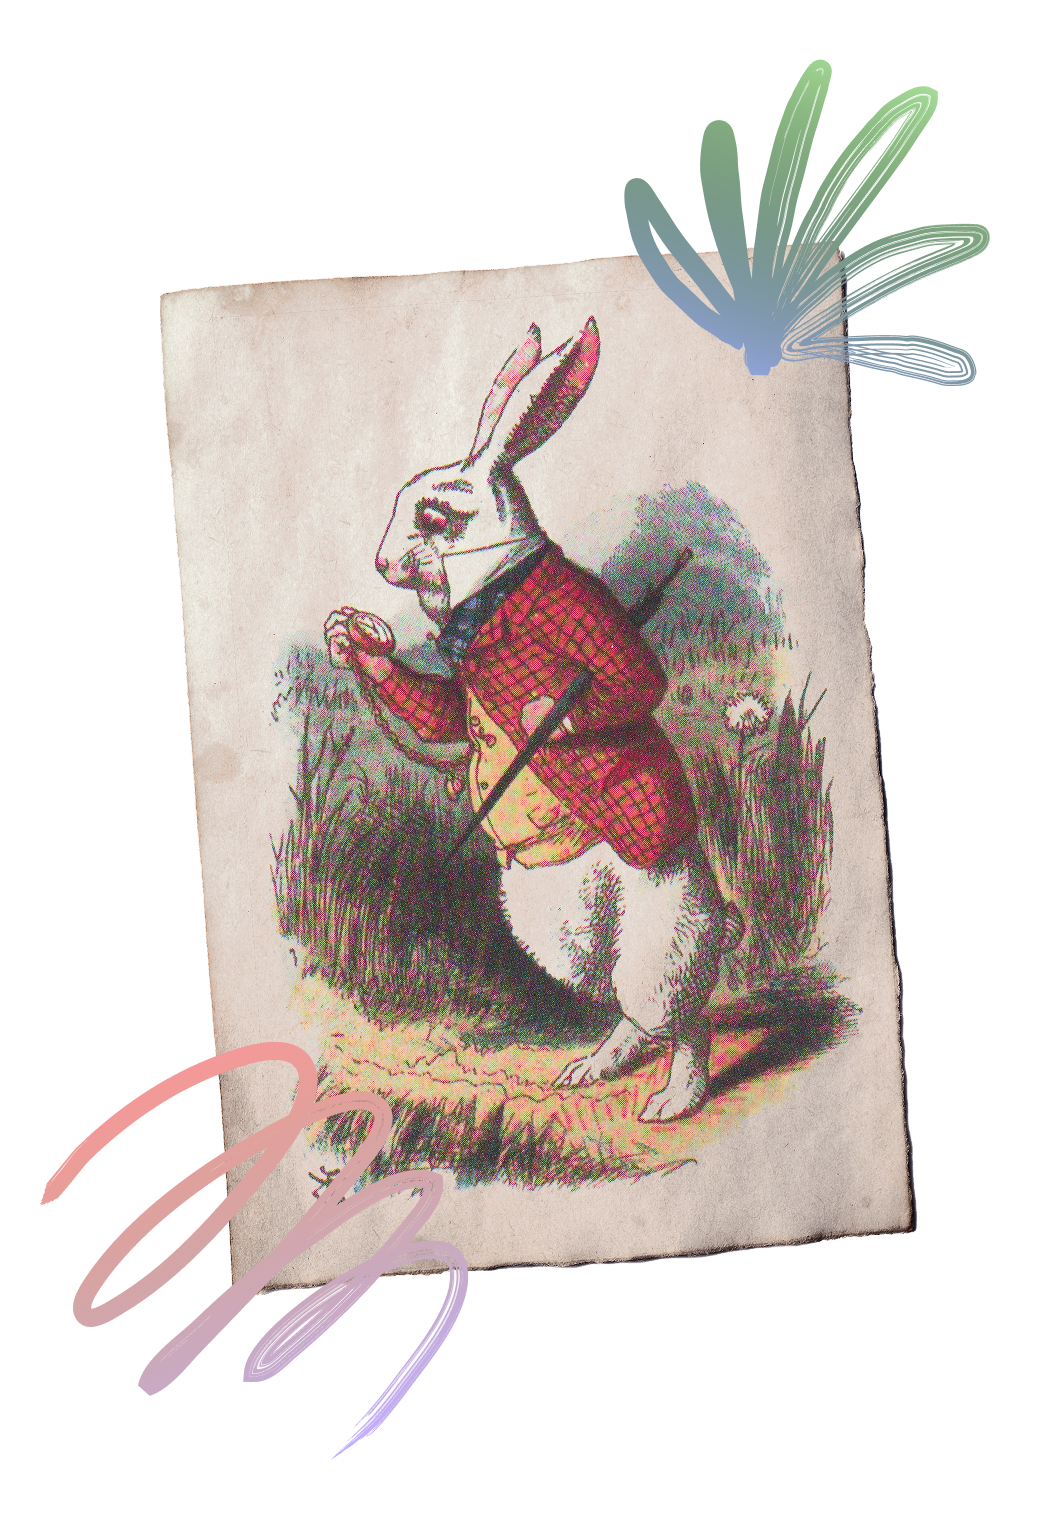
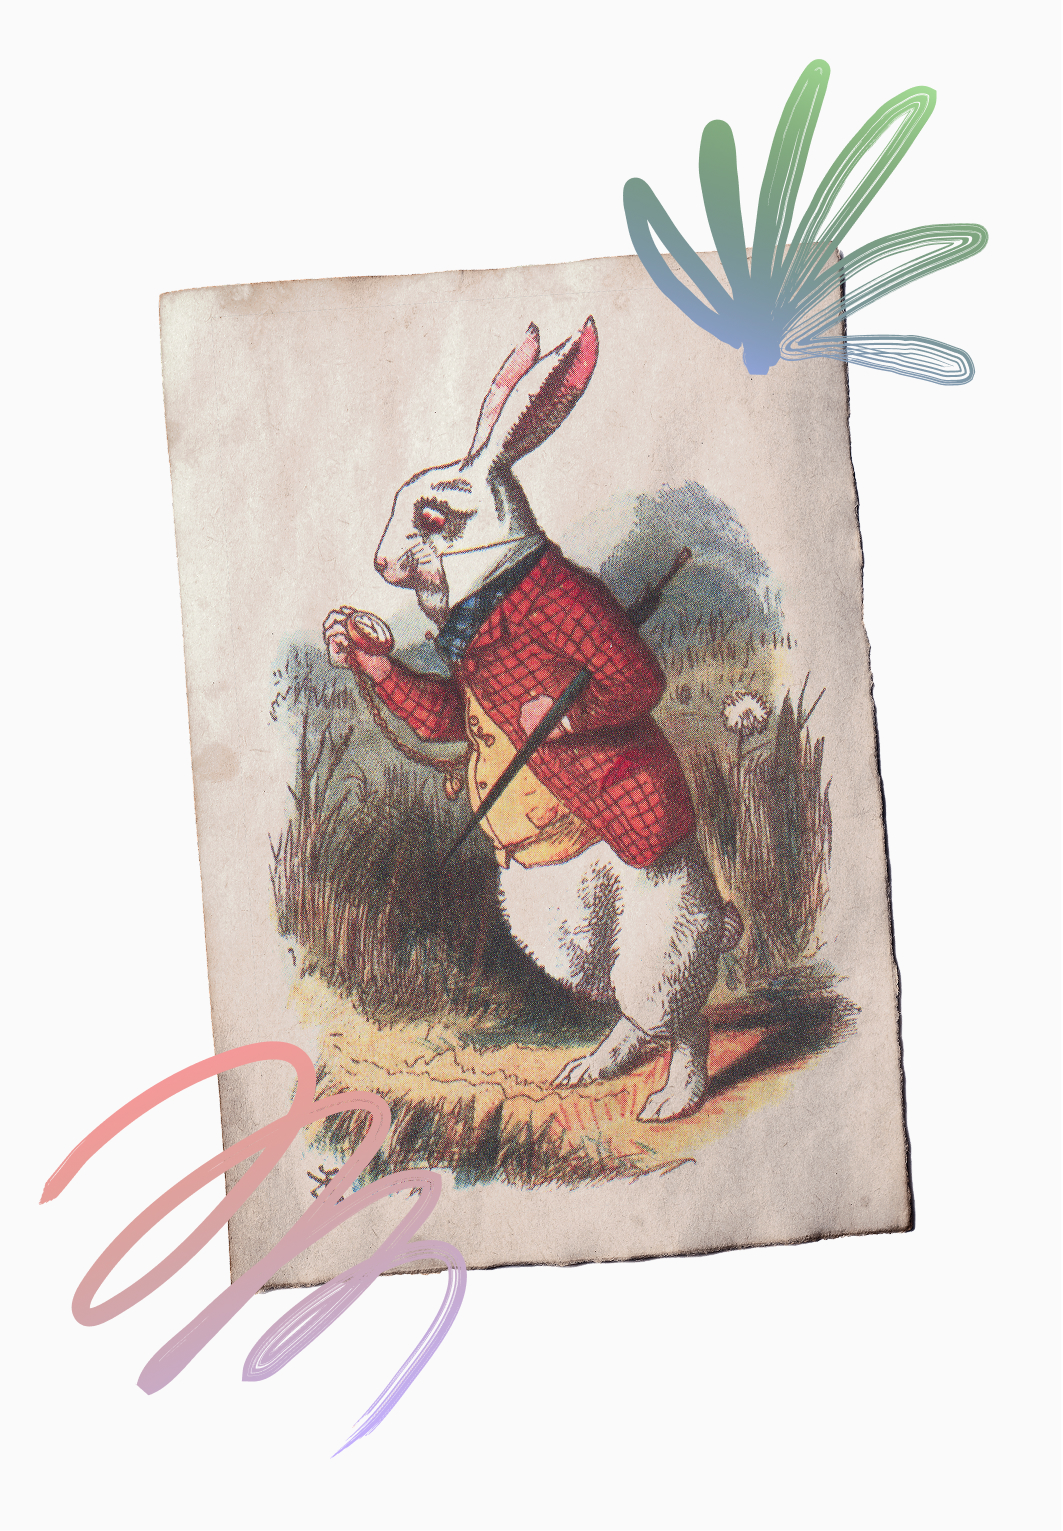
Compressed images

diff --git a/src/sections/Specialties.tsx b/src/sections/Specialties.tsx
@@ -44,7 +44,7 @@ const specialties = [
     id: 'geriatric',
     title: 'Geriatric',
     icon: '/65+.svg',
-    image: '/geriatric-photo.png',
+    image: '/geriatric-photo.jpg',
     content: (
       <p>
         Aging brings change — in our roles, bodies, and relationships. I work with older adults facing grief, isolation,
@@ -58,7 +58,7 @@ const specialties = [
     id: 'families',
     title: 'Families',
     icon: '/families.svg',
-    image: '/family-picture.png',
+    image: '/family-picture.jpg',
     content: (
       <p>
         Family life is complex. I help families strengthen communication, resolve conflict, and adapt to life’s changes together.

diff --git a/src/sections/FAQ.tsx b/src/sections/FAQ.tsx
@@ -66,7 +66,7 @@ export default function FAQSection() {
         {/* Right image (stacked first on mobile) */}
         <div className="relative lg:order-1 order-none w-[300px] sm:w-auto mx-auto max-w-[450px] lg:mr-20">
           <Image
-            src="/FAQ-image.png"
+            src="/FAQ-image.jpg"
             alt="FAQ illustration"
             width={500}
             height={600}

diff --git a/src/sections/Approach.tsx b/src/sections/Approach.tsx
@@ -10,7 +10,7 @@ export default function Approach() {
           {/* Image */}
           <div className="w-full md:w-1/2">
             <Image
-              src="/my-approach.png"
+              src="/my-approach.jpg"
               alt="Alice tea party"
               width={600}
               height={400}

diff --git a/src/sections/CTAFooter.tsx b/src/sections/CTAFooter.tsx
@@ -33,7 +33,7 @@ export default function CTAfooter() {
         <div className="flex justify-center lg:justify-end shrink-0 w-full lg:w-auto">
   <div className="">
     <Image
-      src="/Alice-Footer.png"
+      src="/Alice-Footer.jpg"
       alt="Alice Illustration"
       width={420}
       height={520}
